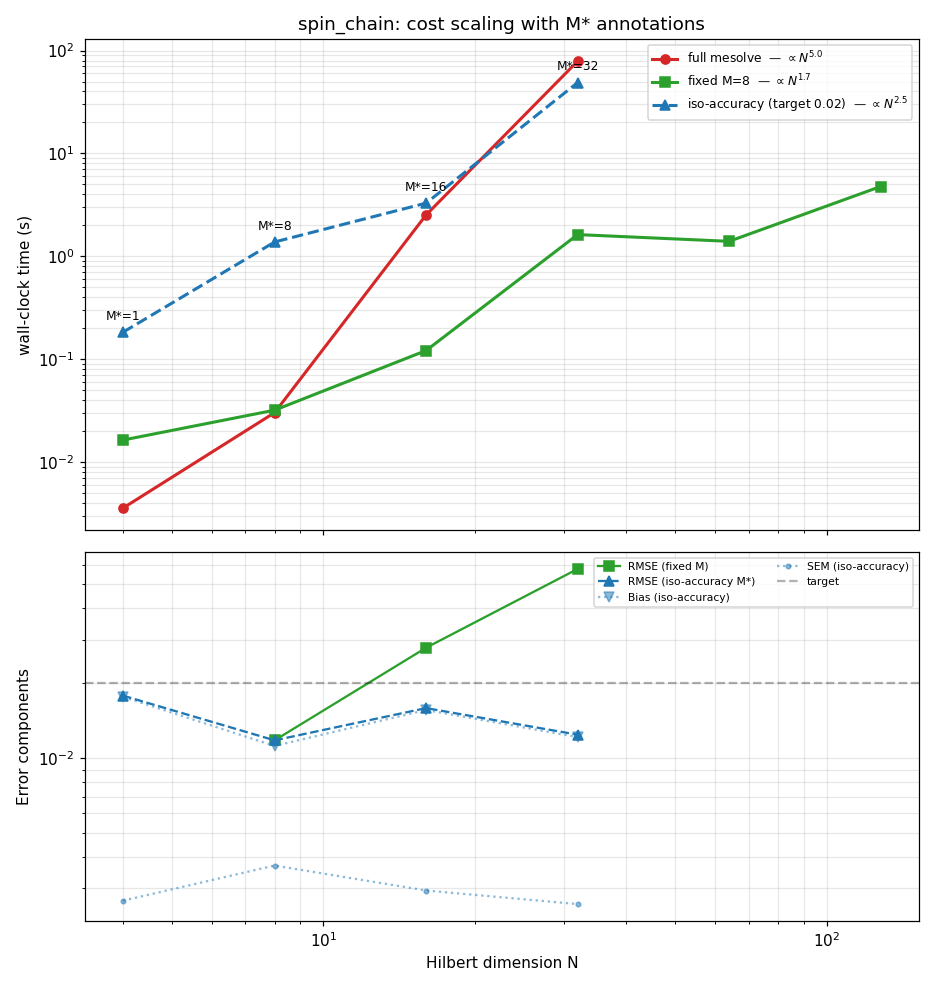
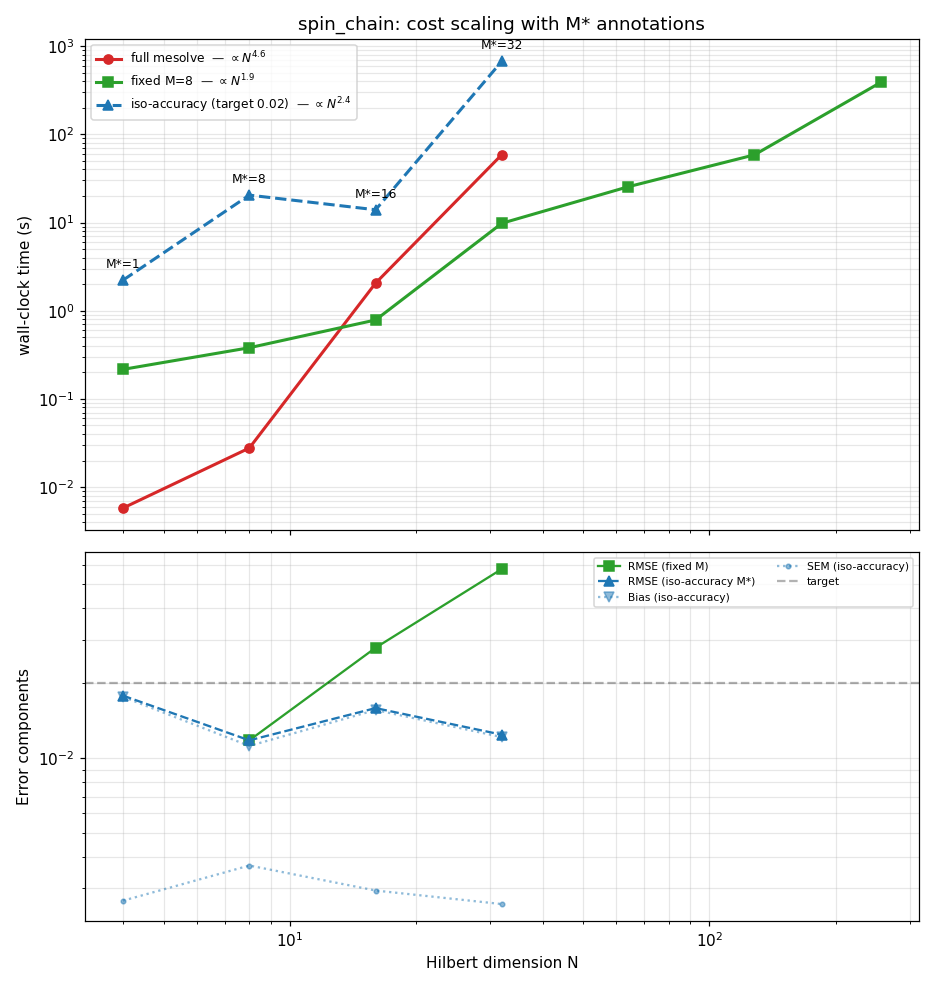
Update Result2

diff --git a/benchmarks/common.py b/benchmarks/common.py
@@ -35,7 +35,7 @@ import qutip
 # ===========================================================================
 # GLOBAL RUN SETTINGS
 # ===========================================================================
-SUBSTEPS = 4                # RK4 substeps per TLIST step for SLB (native backend).
+SUBSTEPS = 64                # RK4 substeps per TLIST step for SLB (native backend).
                             # >=2 is required for stability on the stiffer
                             # oscillator at larger sizes (substeps=1 diverges
                             # there); the result is already converged by 2, so 4
